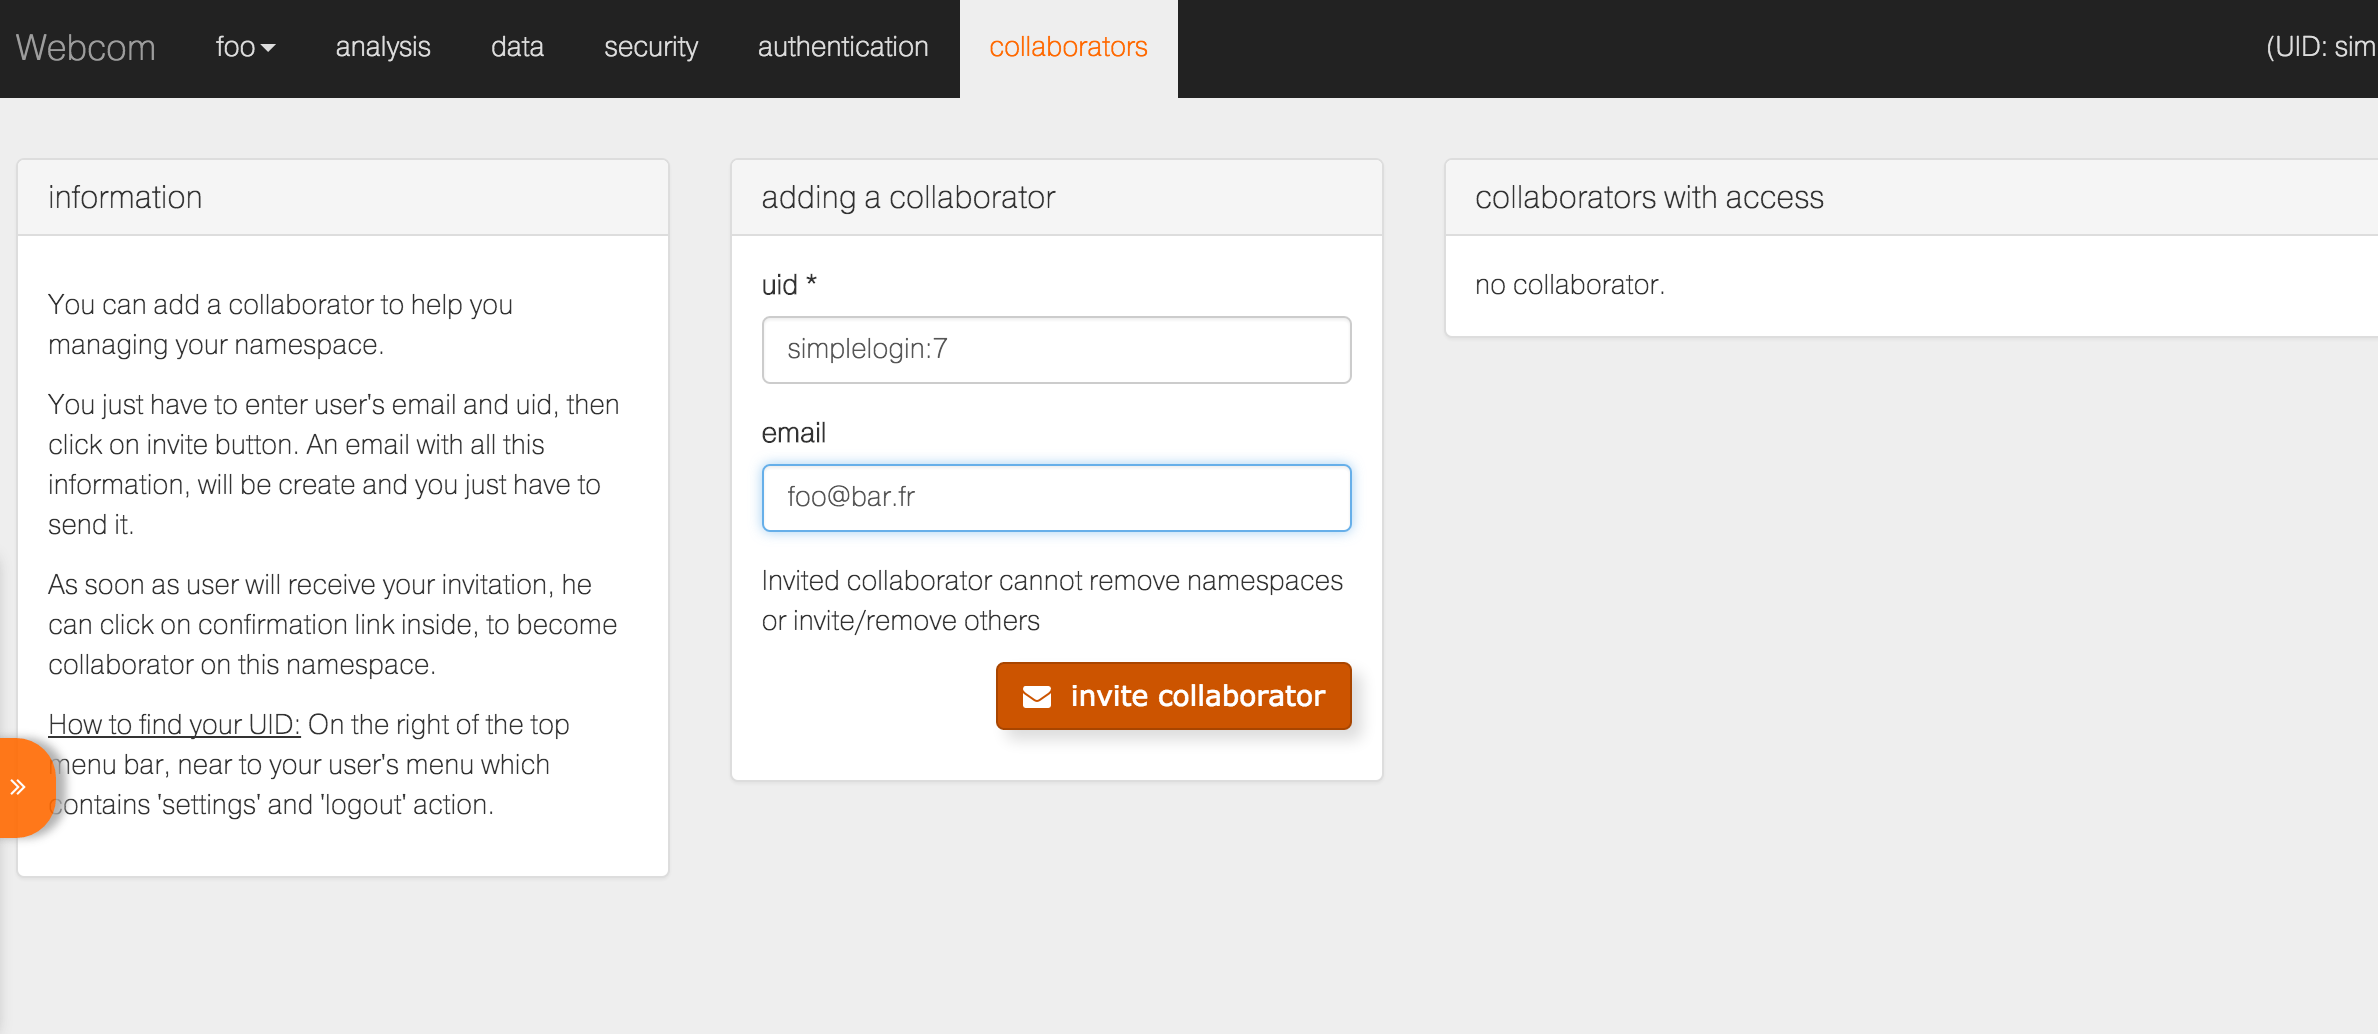
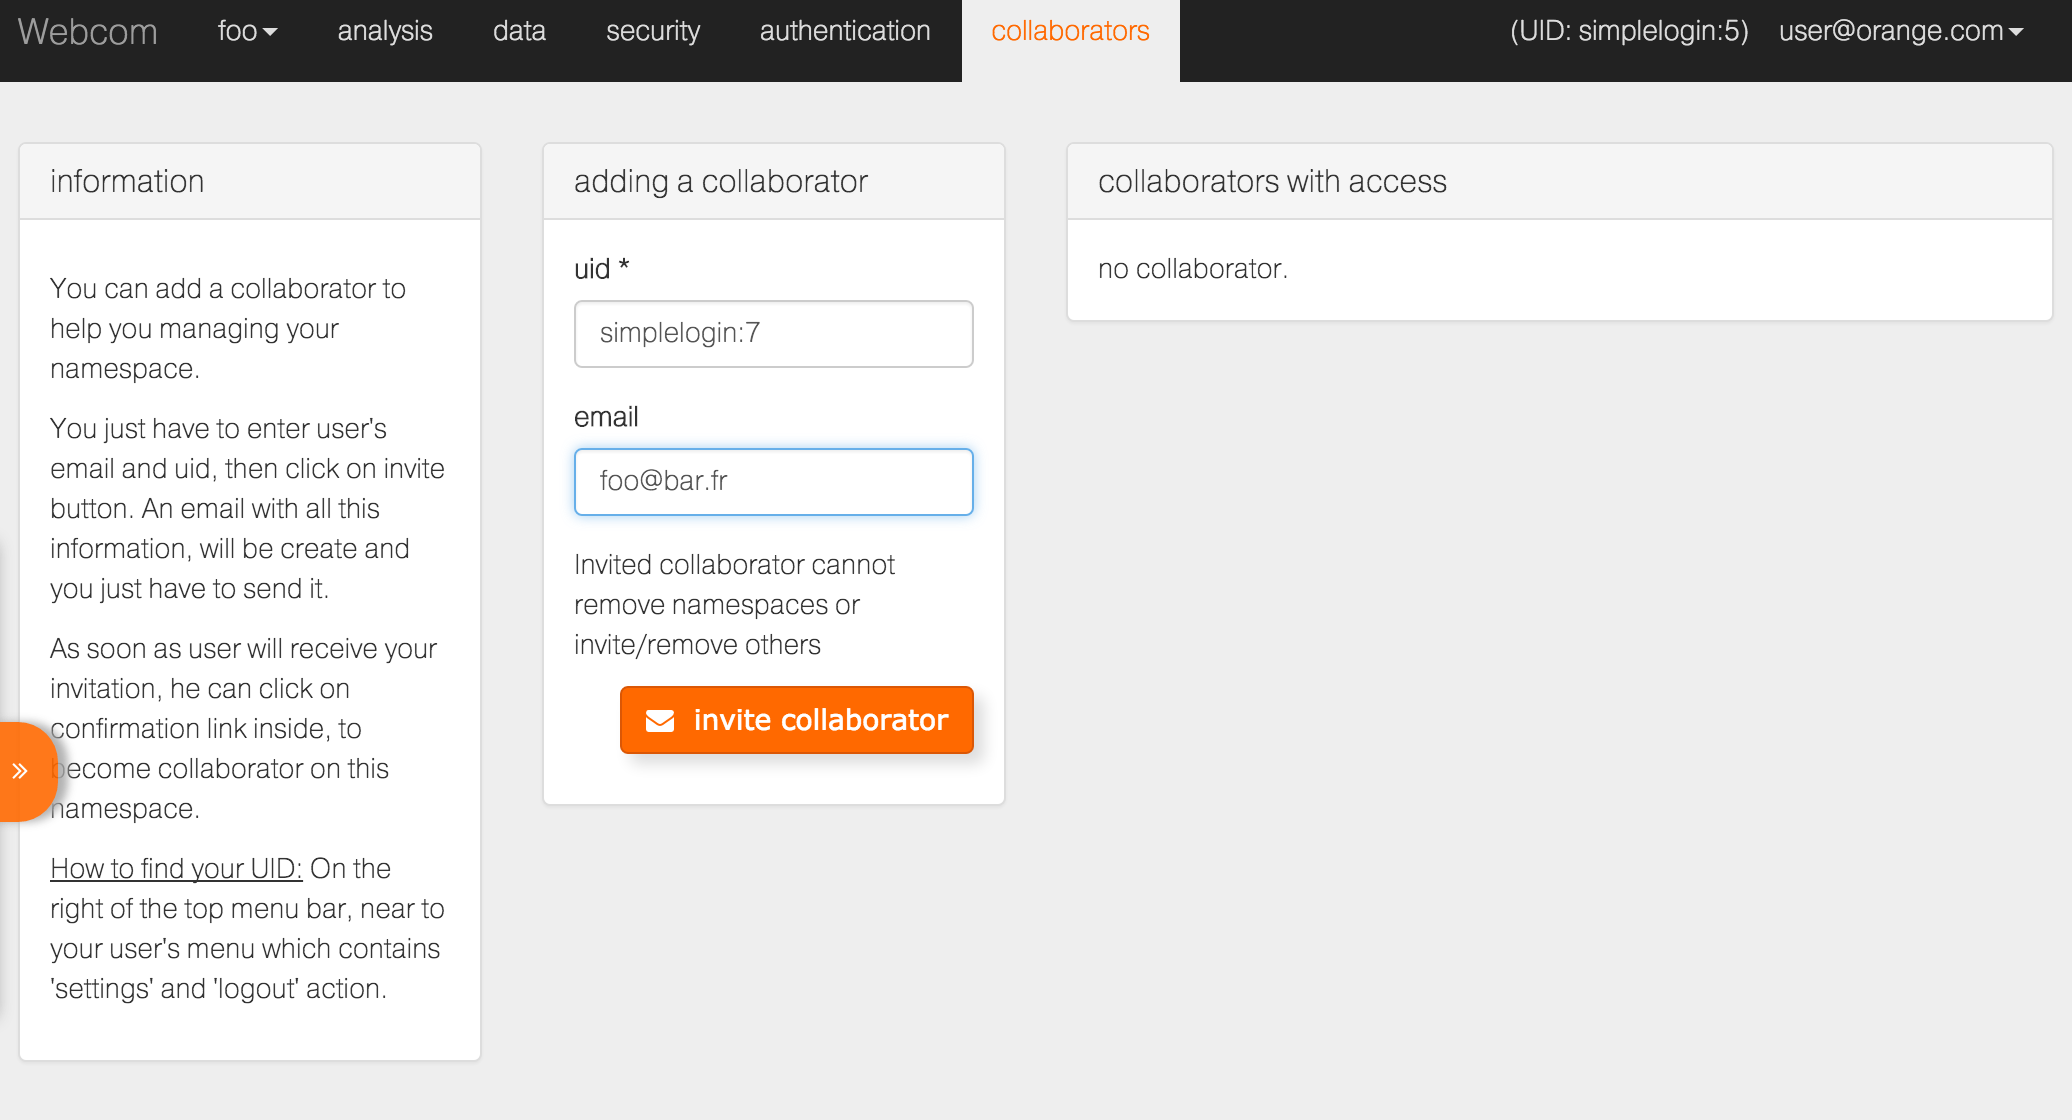
retake collab screenshot and add link to ex0

diff --git a/ex0/README.md b/ex0/README.md
@@ -12,11 +12,11 @@
 
 # Manage a namespace
 
-![Manage namespace](https://raw.githubusercontent.com/webcom-components/tutorials/master/ex0/intonamespace.png)
+![manage namespace](https://raw.githubusercontent.com/webcom-components/tutorials/master/ex0/intonamespace.png)
 
 # Add a collaborator
 
-![Add a collaborator](https://raw.githubusercontent.com/webcom-components/tutorials/master/ex0/collab.png)
+![add a collaborator](https://raw.githubusercontent.com/webcom-components/tutorials/master/ex0/collab.png)
 
 
 

diff --git a/README.md b/README.md
@@ -1,7 +1,7 @@
 # Tutorials
 Tutorials on Webcom
 
-- Exercise 0 : Create and manage your namespaces
+- [Exercise 0](https://github.com/webcom-components/tutorials/blob/master/ex0/README.md) : Create and manage your namespaces
 - Exercise 1 : Retrieve data
 - [Exercise 2](https://github.com/webcom-components/tutorials/blob/master/ex2/README.md) : Write data
 - Exercise 3 : Add constraints to your data 
